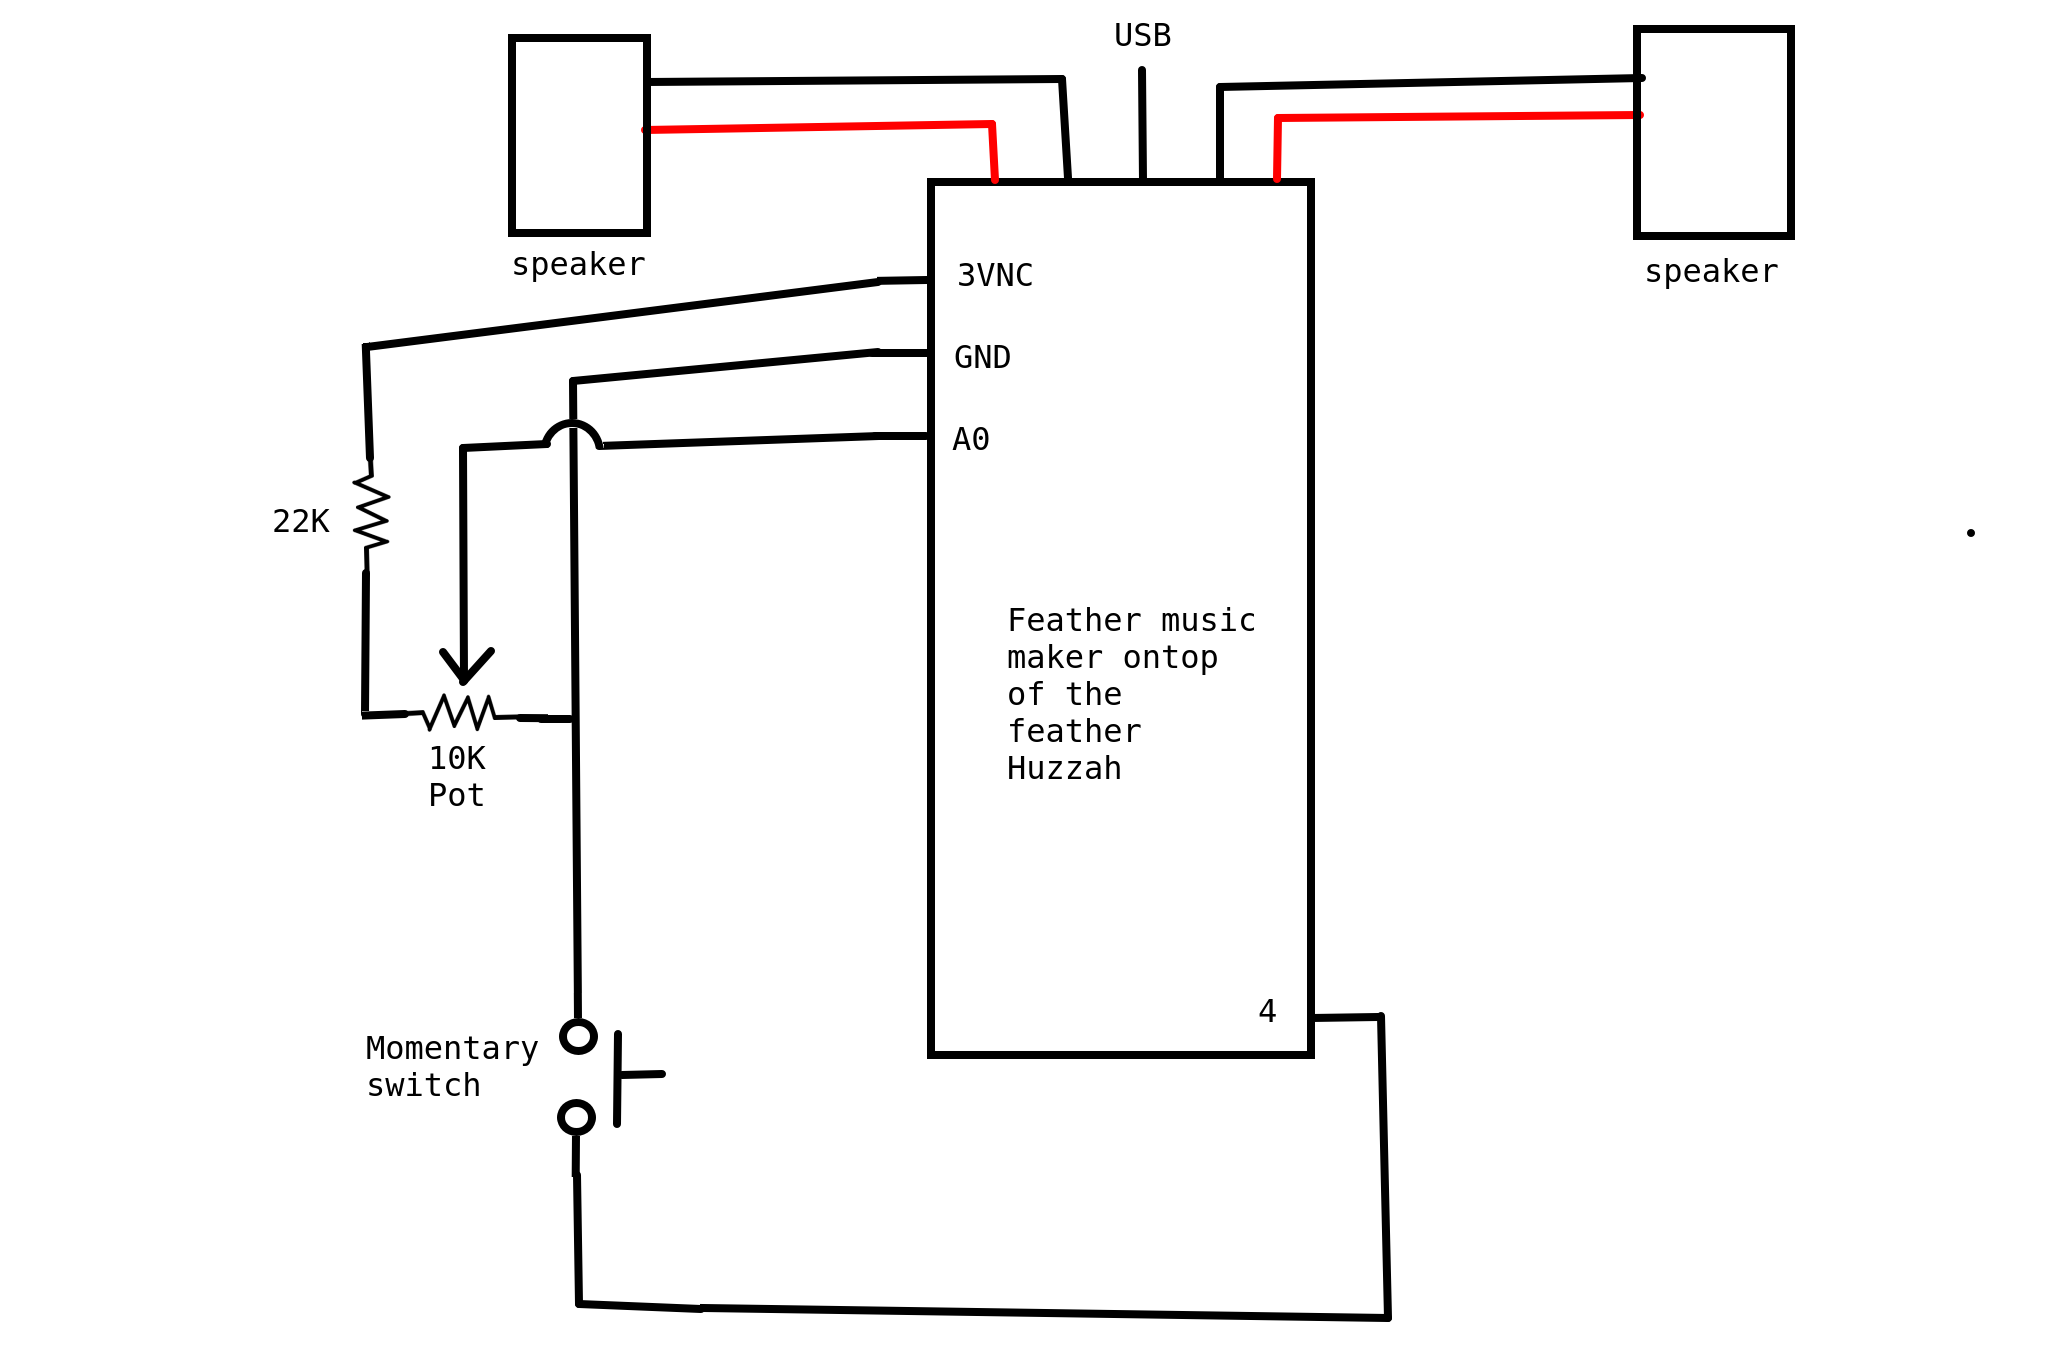
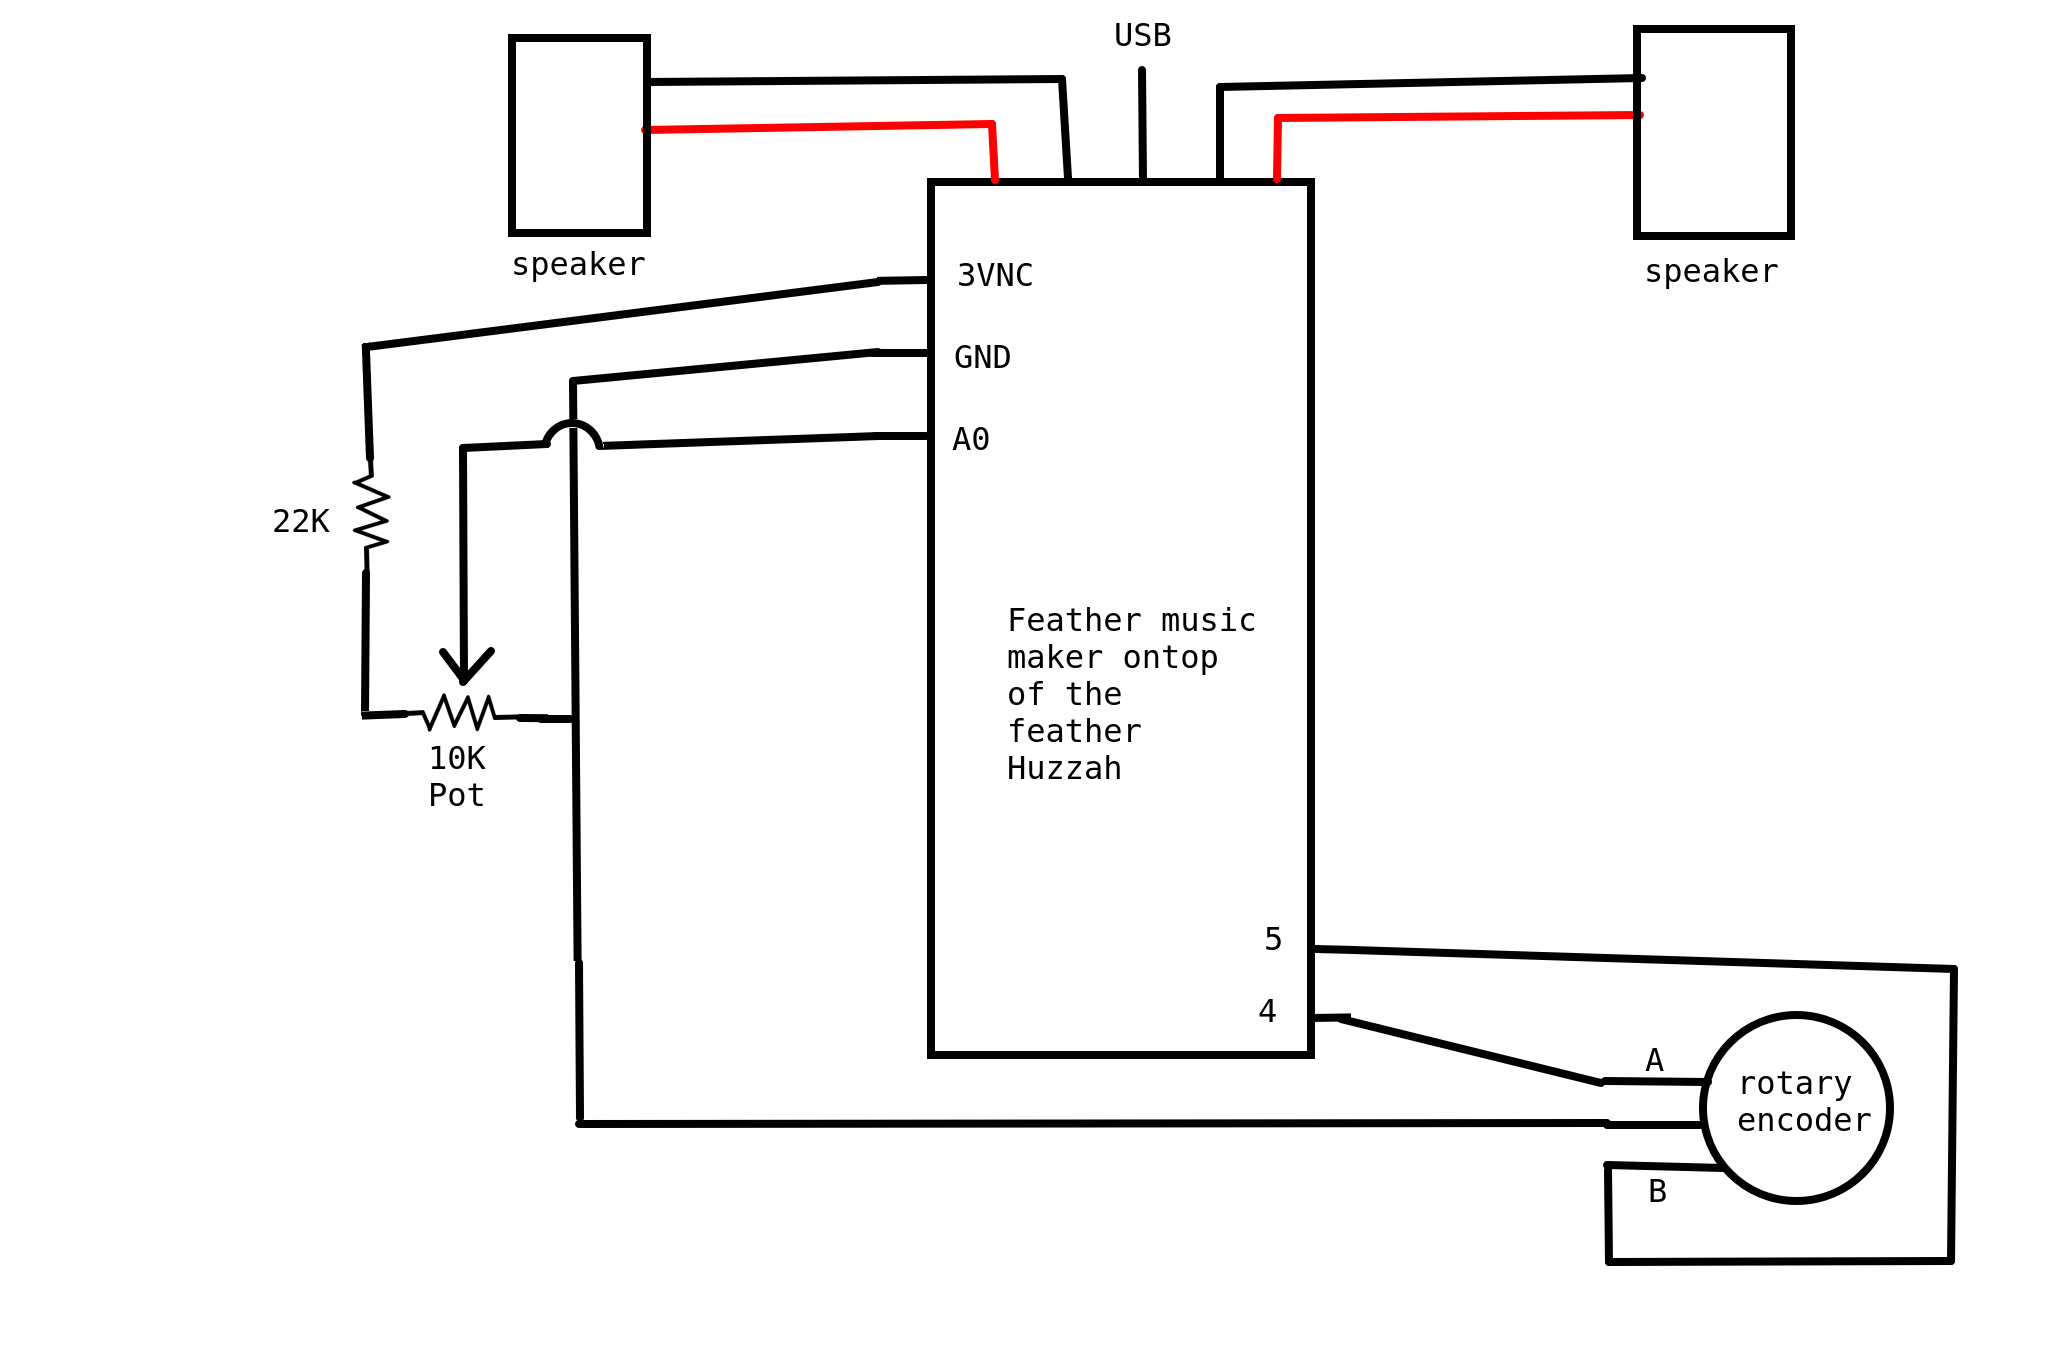
Update code to use rotary encoder for switching between radio stations

diff --git a/src/internet_streaming.cpp b/src/internet_streaming.cpp
@@ -5,12 +5,12 @@
 #include "internetRadioStream.h"
 #include "SDRadioStream.h"
 #include "StreamSelector.h"
+#include "rotaryEncoder.h"
 #define DEFAULTVOL 30
 
-
-
 #define VOLUME_KNOB A0
-#define CYCLE_THRU_STREAMS_BUTTON 4
+#define ROTARY_ENCODER_CHANNEL_A 4
+#define ROTARY_ENCODER_CHANNEL_B 5
 
 int lastvol = DEFAULTVOL;
 
@@ -28,6 +28,7 @@ RadioStreamInterface *radioStream4 = new SDRadioStream(&sound, "/anotherradio");
 /* ------------------------------------------*/
 
 StreamSelector *selector;
+RotaryEncoder *rotary;
 
 void setup()
 {
@@ -44,44 +45,18 @@ void setup()
   selector->AddStream(radioStream4, 3);
   /*---------------------*/
 
-  Serial.println("setting on off switch");
-  //set on-off switch pin mode
-  // don't use an IRQ, we'll hand-feed
-  pinMode(CYCLE_THRU_STREAMS_BUTTON, INPUT_PULLUP);
+  Serial.println("Setting up rotary encoder");
+  rotary = new RotaryEncoder(ROTARY_ENCODER_CHANNEL_A, ROTARY_ENCODER_CHANNEL_B);
+  rotary->initialize();
 }
 
 int loopcounter = 0;
-int buttonHasLifted = 1;
 int running = 0;
-
-//return 1 if the button has been pressed, 0 otherwise
-//function limits so it only returns 1 once per button press
-//so polling works
-int buttonPressed()
-{
-  int rawVal = digitalRead(CYCLE_THRU_STREAMS_BUTTON);
-
-  if (rawVal)
-  {
-    //button is not pressed
-    buttonHasLifted = 1;
-  }
-  else
-  {
-    //button is pressed
-    if (buttonHasLifted)
-    {
-      buttonHasLifted = 0; //don't return 1 again until the button has been lifted
-      return 1;
-    }
-  }
-
-  return 0;
-}
 
 void loop()
 {
-  if (buttonPressed())
+  int rotVal = rotary->checkSelection();
+  if (rotVal)
   {
     //cycle through streams with button press
 
@@ -91,8 +66,15 @@ void loop()
     //until one succeeds
     do
     {
-
-      running = (running + 1) % StreamLength;
+      if (rotVal == 1)
+      {
+        running = (running + 1) % StreamLength;
+      }
+      else if (rotVal == -1)
+      {
+        //decrement, but loop around if reach start
+        running = (running - 1 < 0) ? StreamLength - 1 : running - 1;
+      }
 
       Serial.print("Trying to initialize stream ");
       Serial.println(running);

diff --git a/src/rotaryEncoder.cpp b/src/rotaryEncoder.cpp
@@ -1,0 +1,61 @@
+#include "rotaryEncoder.h"
+
+
+
+RotaryEncoder::RotaryEncoder(uint8_t channelA, uint8_t channelB){
+    pin_encoder_a = channelA;
+    pin_encoder_b = channelB;
+}
+
+void RotaryEncoder::initialize() {
+  pinMode(pin_encoder_a, INPUT_PULLUP);
+  pinMode(pin_encoder_b, INPUT_PULLUP);
+
+  int valA = digitalRead(pin_encoder_a);
+  int valB = digitalRead(pin_encoder_b);
+  prevVal = (valA << 1) + valB;
+
+}
+
+int RotaryEncoder::checkSelection() {
+  int valA = digitalRead(pin_encoder_a);
+  int valB = digitalRead(pin_encoder_b);
+  int returnVal = 0;
+  newVal = (valA << 1) + valB;
+  
+  int info = lookupTable[prevVal][newVal];
+
+
+  if (info == 1){
+    clockState |= (1 << newVal); //set the bit to 1
+  }
+  else if (info == -1){
+    counterClockState |= (1 << newVal);
+  }
+  else if (info == 2){
+    Serial.println("skipped a value");
+  }
+
+  if (prevVal != newVal && newVal == 3){
+    //changed to the non moving state, lets figure out what direction we went!
+
+    //for each clockwise and counterclockwise, the encoder state goes through 4 distinct states
+    //make sure it's gone through at least 3 of those (and assume if one is missing it's because I didn't read fast enough)
+    if (clockState == 0b1011 || clockState == 0b1101 || clockState == 0b1110 || clockState == 0b1111){
+      Serial.println("Result was clockwise");
+      returnVal = 1;
+    }
+    else if (counterClockState == 0b1011 || counterClockState == 0b1101 || counterClockState == 0b1110 || counterClockState == 0b1111){
+      Serial.println("Result was COUNTER clockwise");
+      returnVal = -1;
+    }
+    
+    clockState = 0;
+    counterClockState = 0;
+    
+  }
+  
+  prevVal = newVal;
+
+  return returnVal;
+}

diff --git a/src/rotaryEncoder.h b/src/rotaryEncoder.h
@@ -1,0 +1,27 @@
+#include <Arduino.h>
+
+class RotaryEncoder
+{
+
+public:
+    RotaryEncoder(uint8_t channelA, uint8_t channelB);
+    void initialize(void);
+    int checkSelection(void);
+
+private:
+    int prevVal = 0;
+    int newVal;
+    unsigned int clockState = 0;
+    unsigned int counterClockState = 0;
+    //lookup table, first index is previous value
+    //second index is current value
+    //says if it's part of the sequence when moving
+    //clockwise (1) or counterclockwise (-1)
+    //didn't move (0) or skipped a value (2)
+    int lookupTable[4][4] = {{0, -1, 1, 2},
+                             {1, 0, 2, -1},
+                             {-1, 2, 0, 1},
+                             {2, 1, -1, 0}};
+    uint8_t pin_encoder_a = 4;
+    uint8_t pin_encoder_b = 5;
+};

diff --git a/Readme.md b/Readme.md
@@ -27,7 +27,7 @@ This is future functionality right now. The eventual plan is to let you set an R
 I'm using an [adafruit Huzzah with ESP8266](https://www.adafruit.com/product/2821) as my main brains. It has built-in wifi support and seems smart enough for my needs. To play the music, I'm using the [adafruit music maker featherwing](https://www.adafruit.com/product/3436) which uses the VS1053B codec chip, allowing it to support Ogg Vorbis, MP3/MP2/MP1, MP4, AAC, WMA, FLAC, WAV/PCM, and MIDI formats, plus it has a built in microSD card slot, which I'm using for that radio station option above. The sound comes from two [3W 4 Ohm mono speakers](https://www.adafruit.com/product/4445).
 
 ### temporary hardware
-Right now I'm using a [10K linear pot](https://www.adafruit.com/product/562) from adafruit with a 22K resistor for the volume control, and a single [momentary switch button](https://www.adafruit.com/product/1119) for switching between stations. Eventually this will be replaced with rotary encoders for both. 
+Right now I'm using a [10K linear pot](https://www.adafruit.com/product/562) from adafruit with a 22K resistor for the volume control, and a single [rotary encoder](https://www.adafruit.com/product/377) for switching between stations.
 
 ## Config file - (Future)
 Eventually, I plan on having a simple configuration file on the microSD card that the feather will read on start up, which is where you'll put the list of "radio stations" and where to find them. 
@@ -40,7 +40,7 @@ Current hardware wiring schematic is in the docs folder, I wired it up using a b
 
 ![Schematics.png](docs/Schematics.png)
 
-You can update the `VOLUME_KNOB` definition or the `CYCLE_THRU_STREAMS_BUTTON` definition in the code if you want to connect either to a different pin on the feather, but this setup will work with the code as is. 
+You can update the `VOLUME_KNOB` definition or the `ROTARY_ENCODER_CHANNEL_A` and `ROTARY_ENCODER_CHANNEL_B` definition in the code if you want to connect either to a different pin on the feather, but this setup will work with the code as is. 
 
 ## Adding your own streams
 Once connected, update the code in `internet_streaming.cpp` file to add your streams. First section you modify starts with `/*-----UPDATE STREAM LIST AND LENGTH HERE----*/`. Here you add new internet streaming radio URLs. You can see the format from the example ones, pass in host and path separately. Make sure to update the `StreamLength` to the new number of total streams.
